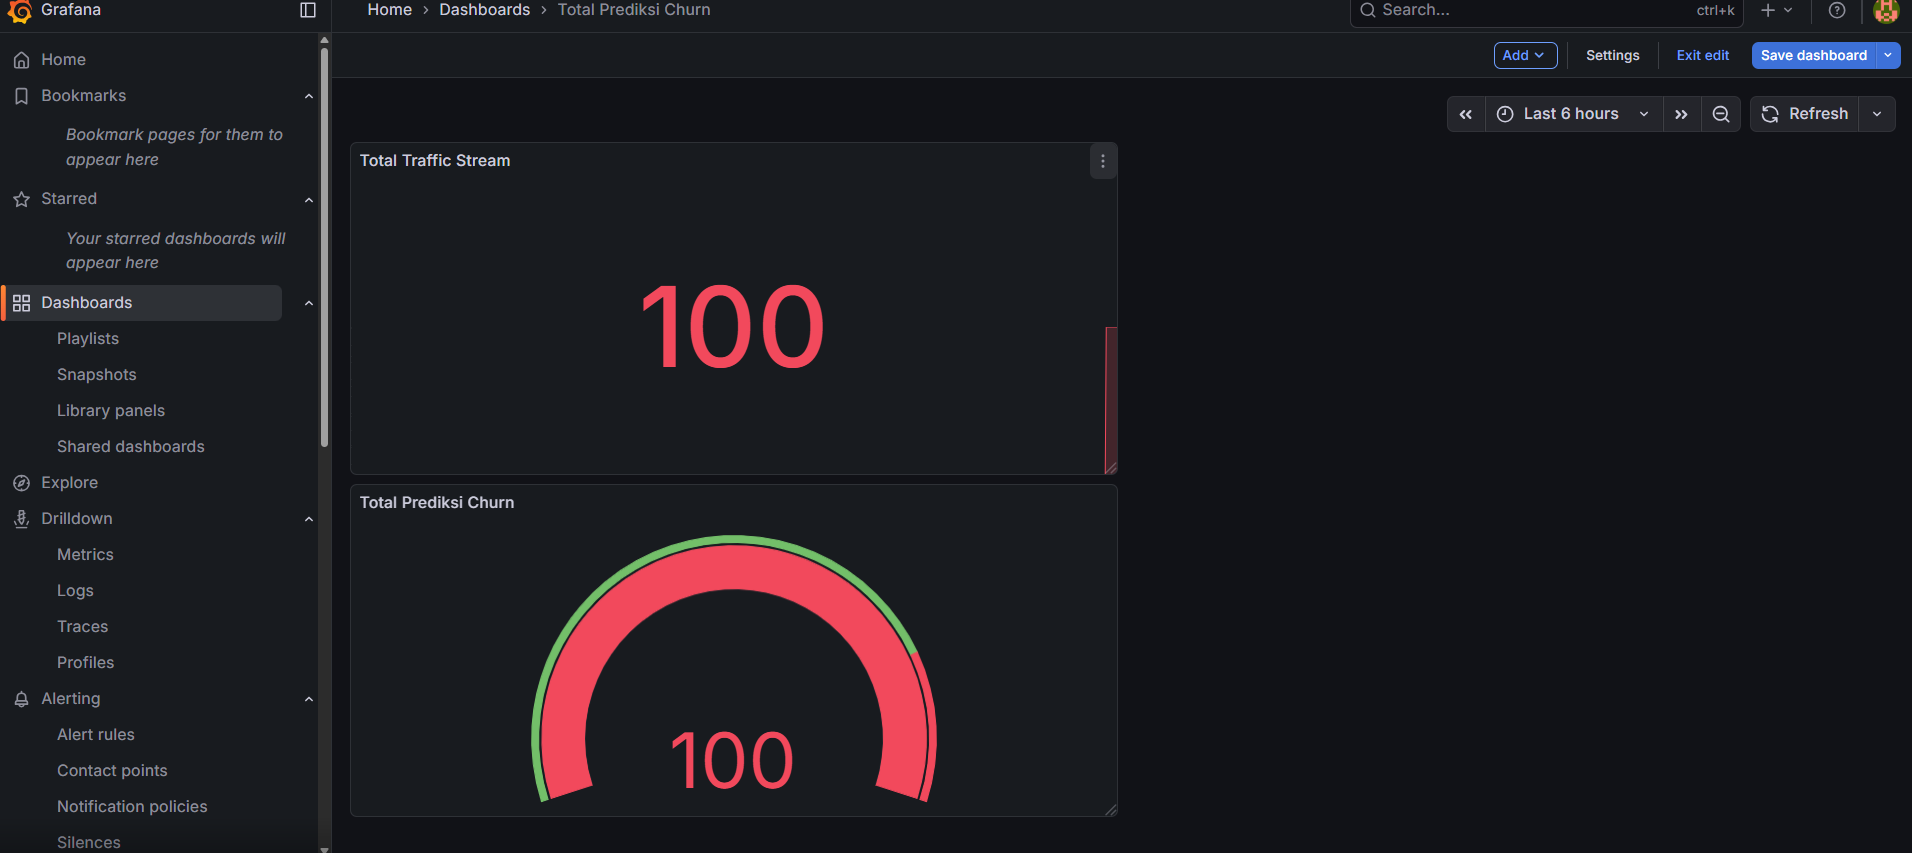
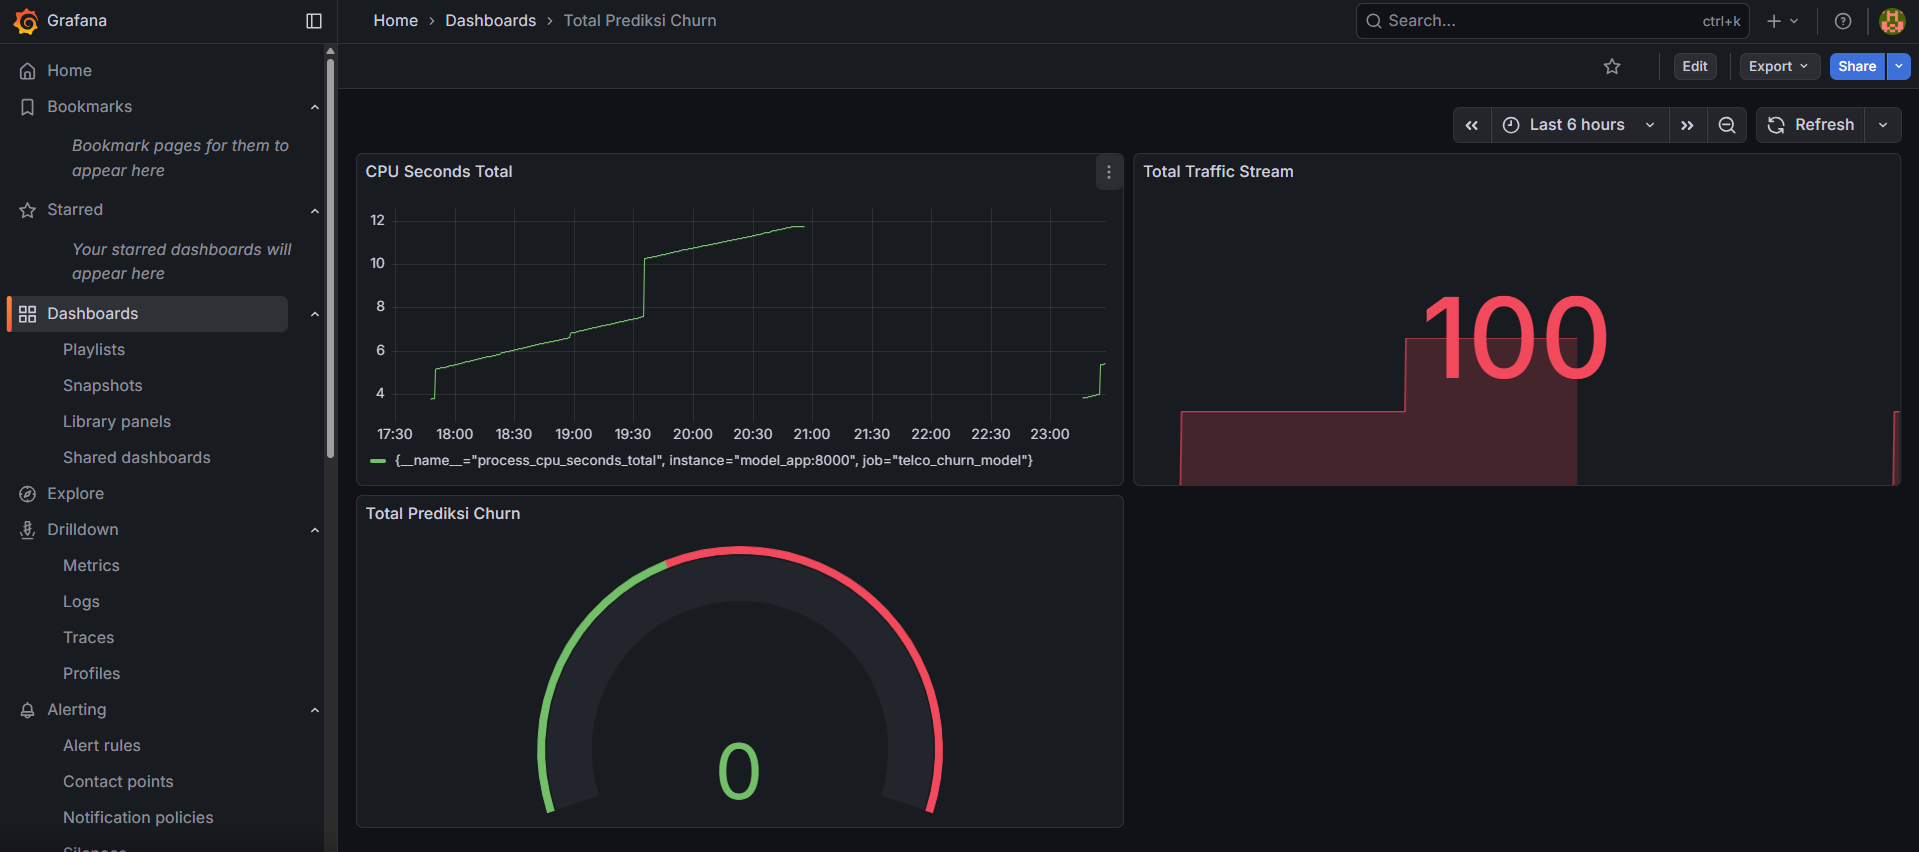
Fixed stuff

diff --git a/monitoring_dan_logging/prometheus_exporter.py b/monitoring_dan_logging/prometheus_exporter.py
@@ -87,3 +87,14 @@ if __name__ == '__main__':
     
     # Jalankan server API Flask di port 5000
     app.run(host='0.0.0.0', port=5000)
+
+# Pastikan Counter didefinisikan di atas
+churn_count = Counter('model_churn_predicted_count_total', '...')
+no_churn_count = Counter('model_no_churn_predicted_count_total', '...') # <--- INI WAJIB ADA
+
+# Di dalam fungsi predict:
+prediction = model.predict(data)
+if prediction[0] == 1:
+    churn_count.inc()
+else:
+    no_churn_count.inc() # <--- INI PENTING AGAR "NO DATA" HILANG
